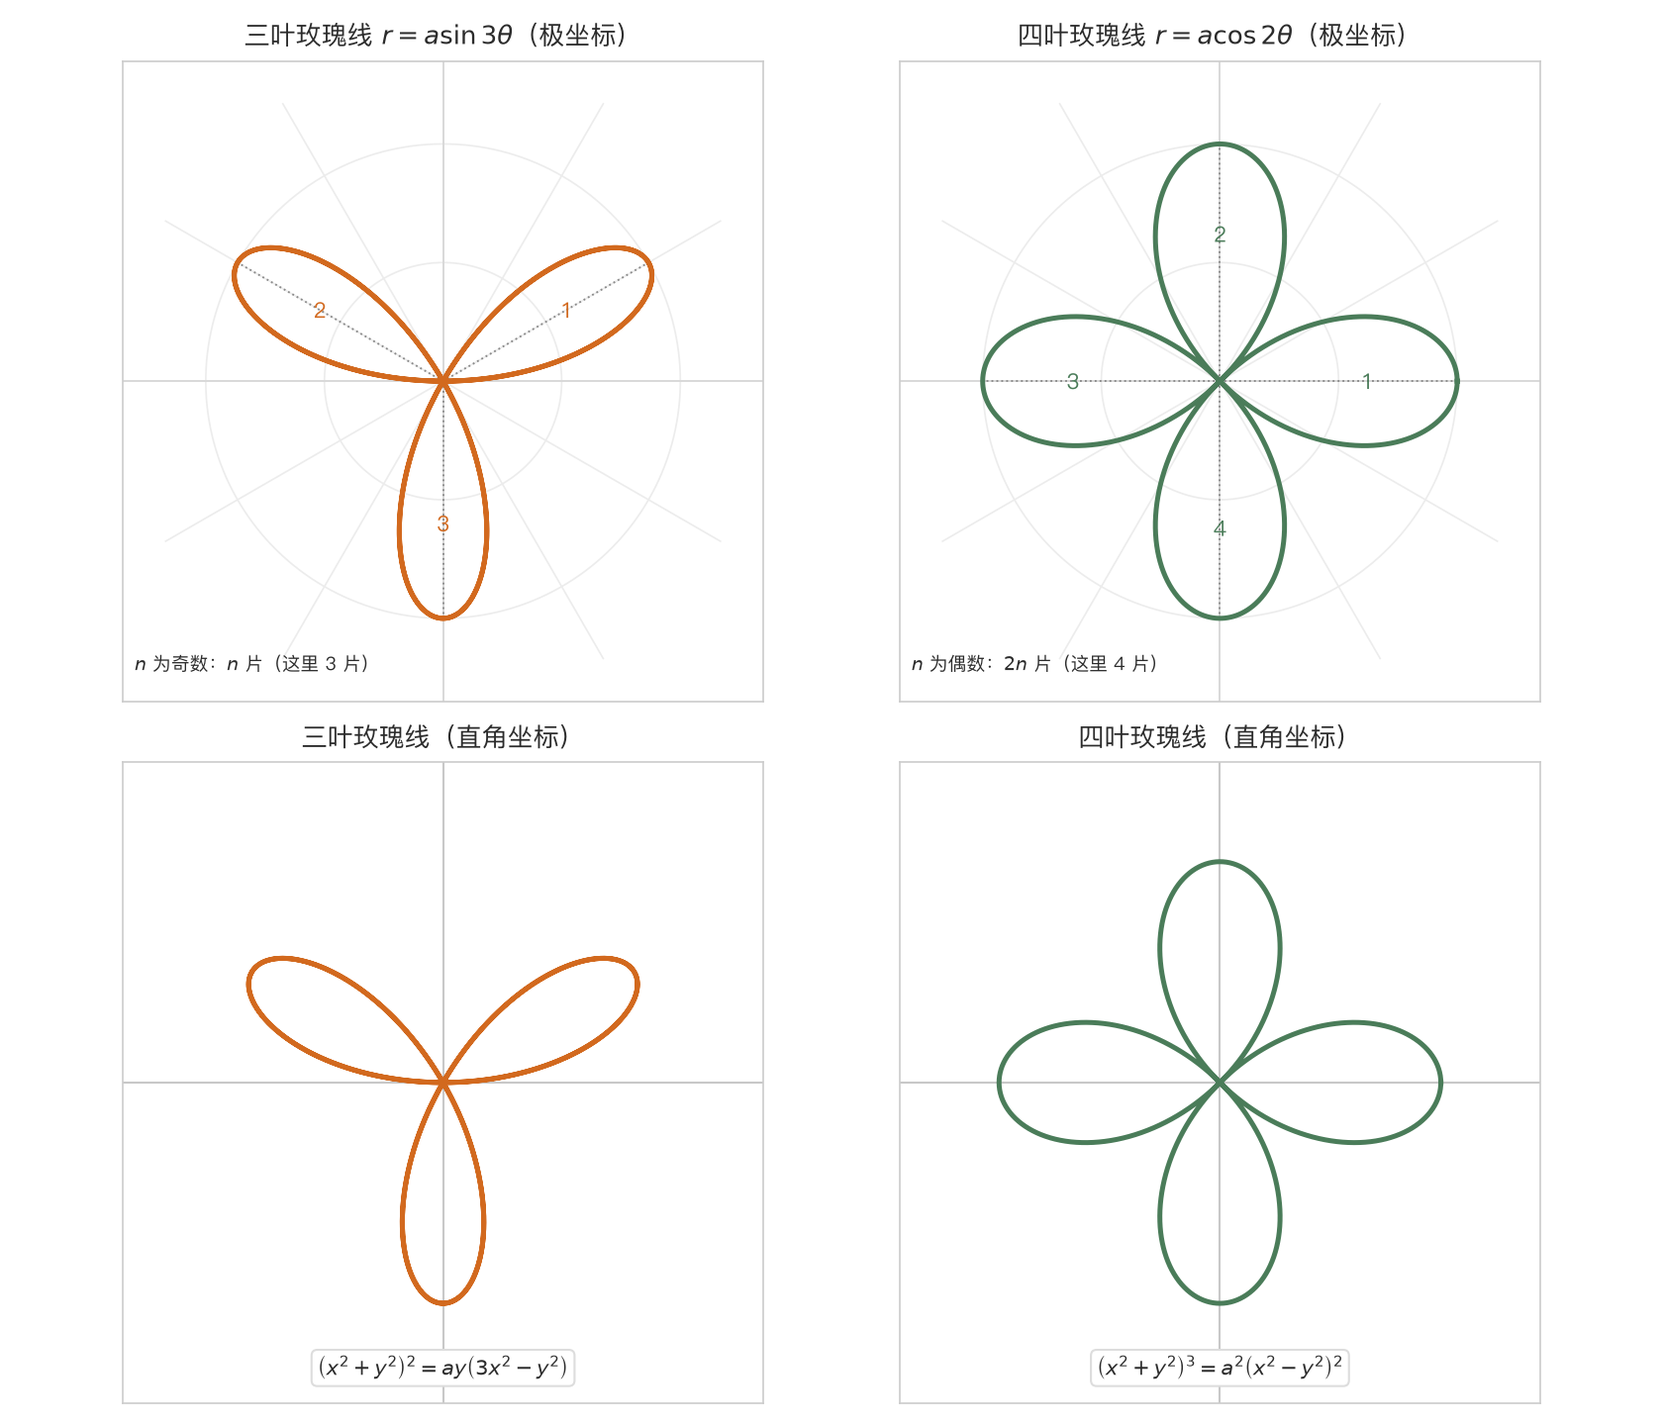
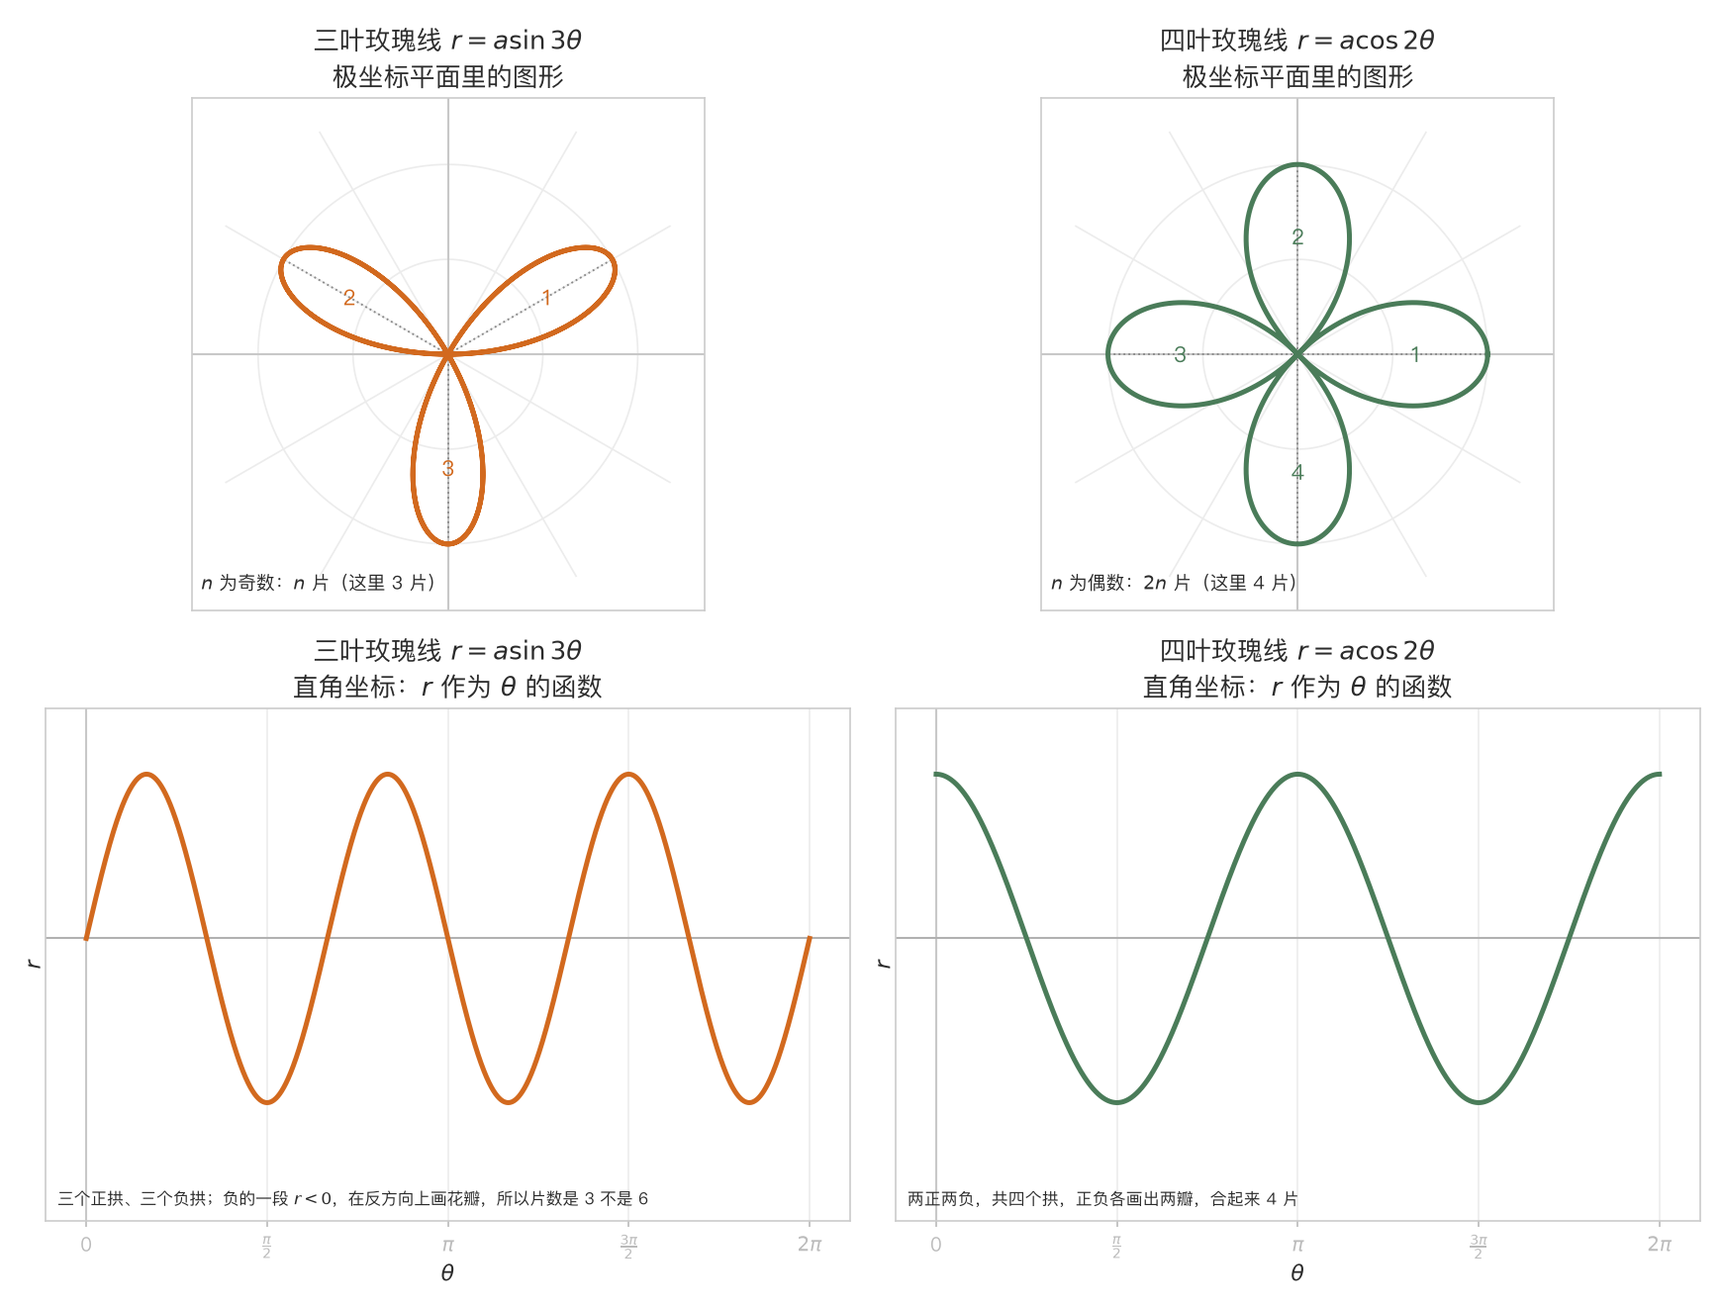
img: plot each polar function as an r(theta) graph beside its polar-plane curve

diff --git a/img/kaoyan-math/make_polar_curve_figs.py b/img/kaoyan-math/make_polar_curve_figs.py
@@ -7,9 +7,10 @@ plt.rcParams["font.family"] = ["PingFang SC", "Arial Unicode MS", "DejaVu Sans"]
 plt.rcParams["axes.unicode_minus"] = False
 
 INK, ORANGE, BLUE = "#2b2b2b", "#d2691e", "#2f4f6f"
-CREAM, RED, GREEN, GREY, BROWN = "#f3e3ce", "#b03a2e", "#4a7c59", "#8a8a8a", "#7a5230"
+RED, GREEN, GREY, BROWN = "#b03a2e", "#4a7c59", "#8a8a8a", "#7a5230"
 BASE = "/Users/fred/Documents/GitHub/cycleuser/blog/output/img/kaoyan-math/"
 F, T = 11.5, 12.5
+PI = np.pi
 
 
 def polar_axes(ax, lim, title):
@@ -19,166 +20,181 @@ def polar_axes(ax, lim, title):
     for a0 in np.arange(0, np.pi, np.pi / 6):
         ax.plot([0, lim * np.cos(a0)], [0, lim * np.sin(a0)], color="#ececec", lw=0.8, zorder=0)
         ax.plot([0, -lim * np.cos(a0)], [0, -lim * np.sin(a0)], color="#ececec", lw=0.8, zorder=0)
-    ax.axhline(0, color="#d8d8d8", lw=0.9, zorder=1)
-    ax.axvline(0, color="#d8d8d8", lw=0.9, zorder=1)
+    ax.axhline(0, color="#c8c8c8", lw=1.0, zorder=1)
+    ax.axvline(0, color="#c8c8c8", lw=1.0, zorder=1)
     ax.set_xlim(-lim, lim); ax.set_ylim(-lim, lim)
     ax.set_aspect("equal"); ax.set_xticks([]); ax.set_yticks([])
     for sp in ax.spines.values():
         sp.set_color("#cccccc")
-    ax.set_title(title + "（极坐标）", fontsize=T, color=INK, pad=8)
+    ax.set_title(title + "\n极坐标平面里的图形", fontsize=T, color=INK, pad=6)
 
 
-def cart_axes(ax, lim, title, eq, note=""):
-    ax.set_xlim(-lim, lim); ax.set_ylim(-lim, lim)
-    ax.set_aspect("equal")
+def rtheta_axes(ax, trange, rrange, title, ticks=None):
+    """直角坐标里把 r 当作 theta 的函数画：横轴 theta，纵轴 r。"""
+    ax.set_xlim(*trange); ax.set_ylim(*rrange)
     ax.grid(True, color="#ececec", lw=0.8)
     ax.axhline(0, color="#c8c8c8", lw=1.0, zorder=2)
     ax.axvline(0, color="#c8c8c8", lw=1.0, zorder=2)
-    ax.set_xticks([]); ax.set_yticks([])
+    if ticks is None:
+        ticks = [(0, "0"), (PI / 2, r"$\frac{\pi}{2}$"), (PI, r"$\pi$"),
+                 (3 * PI / 2, r"$\frac{3\pi}{2}$"), (2 * PI, r"$2\pi$")]
+    ax.set_xticks([t for t, _ in ticks])
+    ax.set_xticklabels([l for _, l in ticks], fontsize=F - 2, color=INK)
+    ax.set_yticks([])
+    ax.tick_params(axis="x", colors="#bbbbbb", length=3)
     for sp in ax.spines.values():
         sp.set_color("#cccccc")
-    ax.set_title(title + "（直角坐标）", fontsize=T, color=INK, pad=8)
-    box = dict(boxstyle="round,pad=0.28", facecolor="white", edgecolor="#dddddd")
-    ax.text(0.5, 0.035, eq, transform=ax.transAxes, fontsize=F - 1.5, color=INK,
-            ha="center", va="bottom", bbox=box)
-    if note:
-        ax.text(0.5, 0.115, note, transform=ax.transAxes, fontsize=F - 3, color=GREY,
-                ha="center", va="bottom")
+    ax.set_title(title + "\n直角坐标：$r$ 作为 $\\theta$ 的函数", fontsize=T, color=INK, pad=6)
+    ax.set_xlabel(r"$\theta$", fontsize=F - 1, color=INK, labelpad=1)
+    ax.set_ylabel(r"$r$", fontsize=F - 1, color=INK, labelpad=1)
 
 
 # ============ 1 心形线 ============
 a = 1.0
 th = np.linspace(0, 2 * np.pi, 2000)
-fig, axes = plt.subplots(1, 2, figsize=(12.2, 5.3), dpi=150)
+r = a * (1 + np.cos(th))
+fig, axes = plt.subplots(1, 2, figsize=(12.0, 5.0), dpi=150)
 
 ax = axes[0]
 polar_axes(ax, 2.2, "心形线 $r=a(1+\\cos\\theta)$")
-r = a * (1 + np.cos(th))
 ax.plot(r * np.cos(th), r * np.sin(th), color=RED, lw=2.6, zorder=3)
 ax.plot([0], [0], "o", color=INK, ms=6, zorder=6)
-ax.annotate("尖端在极点\n（$\\theta=\\pi$，$r=0$）", xy=(0, 0), xytext=(-2.05, 1.55),
-            fontsize=F - 2, color=INK, arrowprops=dict(arrowstyle="->", color=GREY, lw=1.0))
 ax.plot([2 * a], [0], "o", color=BLUE, ms=7, zorder=6)
-ax.annotate("$\\theta=0$ 时 $r=2a$，最远处", xy=(2 * a, 0), xytext=(0.35, 1.98),
+ax.annotate("$\\theta=0$：$r=2a$", xy=(2 * a, 0), xytext=(0.30, 2.00),
             fontsize=F - 2, color=BLUE, arrowprops=dict(arrowstyle="->", color=BLUE, lw=1.0))
-ax.text(-2.1, -1.70, "关于极轴对称，形状像一颗心", fontsize=F - 2, color=GREY)
-ax.text(-2.1, -2.05, "$\\theta$ 从 $0$ 转到 $2\\pi$ 描出一整圈", fontsize=F - 2, color=GREY)
+ax.annotate("$\\theta=\\pi$：$r=0$，回到极点", xy=(0, 0), xytext=(-2.10, 1.55),
+            fontsize=F - 2, color=INK, arrowprops=dict(arrowstyle="->", color=GREY, lw=1.0))
 
 ax = axes[1]
-cart_axes(ax, 2.4, "心形线", "$\\left(x^{2}+y^{2}-ax\\right)^{2}=a^{2}\\left(x^{2}+y^{2}\\right)$")
-ax.plot(r * np.cos(th), r * np.sin(th), color=RED, lw=2.6, zorder=3)
-ax.plot([0], [0], "o", color=INK, ms=6, zorder=6)
-ax.plot([2 * a], [0], "o", color=BLUE, ms=7, zorder=6)
+rtheta_axes(ax, (-0.35, 2 * PI + 0.35), (-0.35, 2.45), "心形线 $r=a(1+\\cos\\theta)$")
+ax.plot(th, r, color=RED, lw=2.6, zorder=3)
+ax.plot([0, 2 * PI], [2, 2], "o", color=BLUE, ms=6, zorder=5)
+ax.plot([PI], [0], "o", color=INK, ms=6, zorder=5)
+ax.annotate("$\\theta=\\pi$ 时 $r$ 掉到 $0$，\n曲线的尖端就是这里", xy=(PI, 0), xytext=(3.55, 0.55),
+            fontsize=F - 2.5, color=INK, arrowprops=dict(arrowstyle="->", color=GREY, lw=1.0))
 fig.tight_layout(); fig.savefig(BASE + "pc-cardioid.png", dpi=150); plt.close(fig)
 
 
-# ============ 2 玫瑰线：三叶与四叶 ============
-fig, axes = plt.subplots(2, 2, figsize=(11.2, 9.6), dpi=150)
+# ============ 2 玫瑰线 ============
+r3 = np.sin(3 * th)
+r2 = np.cos(2 * th)
+fig, axes = plt.subplots(2, 2, figsize=(11.6, 8.8), dpi=150)
 
 ax = axes[0][0]
 polar_axes(ax, 1.35, "三叶玫瑰线 $r=a\\sin 3\\theta$")
-r = np.sin(3 * th)
-ax.plot(r * np.cos(th), r * np.sin(th), color=ORANGE, lw=2.4, zorder=3)
+ax.plot(r3 * np.cos(th), r3 * np.sin(th), color=ORANGE, lw=2.4, zorder=3)
 for k in range(3):
-    ang = np.pi / 6 + k * 2 * np.pi / 3
+    ang = PI / 6 + k * 2 * PI / 3
     ax.plot([0, np.cos(ang)], [0, np.sin(ang)], color=GREY, lw=0.9, ls=":", zorder=2)
     ax.text(0.60 * np.cos(ang), 0.60 * np.sin(ang), "%d" % (k + 1), fontsize=F - 1,
             color=ORANGE, ha="center", va="center")
-ax.text(-1.3, -1.22, "$n$ 为奇数：$n$ 片（这里 3 片）", fontsize=F - 2.5, color=INK)
+ax.text(-1.3, -1.24, "$n$ 为奇数：$n$ 片（这里 3 片）", fontsize=F - 2.5, color=INK)
 
 ax = axes[0][1]
 polar_axes(ax, 1.35, "四叶玫瑰线 $r=a\\cos 2\\theta$")
-r4 = np.cos(2 * th)
-ax.plot(r4 * np.cos(th), r4 * np.sin(th), color=GREEN, lw=2.4, zorder=3)
+ax.plot(r2 * np.cos(th), r2 * np.sin(th), color=GREEN, lw=2.4, zorder=3)
 for k in range(4):
-    ang = k * np.pi / 2
+    ang = k * PI / 2
     ax.plot([0, np.cos(ang)], [0, np.sin(ang)], color=GREY, lw=0.9, ls=":", zorder=2)
     ax.text(0.62 * np.cos(ang), 0.62 * np.sin(ang), "%d" % (k + 1), fontsize=F - 1,
             color=GREEN, ha="center", va="center")
-ax.text(-1.3, -1.22, "$n$ 为偶数：$2n$ 片（这里 4 片）", fontsize=F - 2.5, color=INK)
+ax.text(-1.3, -1.24, "$n$ 为偶数：$2n$ 片（这里 4 片）", fontsize=F - 2.5, color=INK)
 
 ax = axes[1][0]
-cart_axes(ax, 1.45, "三叶玫瑰线", "$\\left(x^{2}+y^{2}\\right)^{2}=ay\\left(3x^{2}-y^{2}\\right)$")
-ax.plot(r * np.cos(th), r * np.sin(th), color=ORANGE, lw=2.4, zorder=3)
+rtheta_axes(ax, (-0.35, 2 * PI + 0.35), (-1.72, 1.40), "三叶玫瑰线 $r=a\\sin 3\\theta$")
+ax.plot(th, r3, color=ORANGE, lw=2.4, zorder=3)
+ax.axhline(0, color="#b0b0b0", lw=0.9, zorder=2)
+ax.text(-0.25, -1.62, "三个正拱、三个负拱；负的一段 $r<0$，在反方向上画花瓣，所以片数是 3 不是 6", fontsize=F - 3.5, color=INK)
 
 ax = axes[1][1]
-cart_axes(ax, 1.45, "四叶玫瑰线", "$\\left(x^{2}+y^{2}\\right)^{3}=a^{2}\\left(x^{2}-y^{2}\\right)^{2}$")
-ax.plot(r4 * np.cos(th), r4 * np.sin(th), color=GREEN, lw=2.4, zorder=3)
+rtheta_axes(ax, (-0.35, 2 * PI + 0.35), (-1.72, 1.40), "四叶玫瑰线 $r=a\\cos 2\\theta$")
+ax.plot(th, r2, color=GREEN, lw=2.4, zorder=3)
+ax.axhline(0, color="#b0b0b0", lw=0.9, zorder=2)
+ax.text(-0.25, -1.62, "两正两负，共四个拱，正负各画出两瓣，合起来 4 片", fontsize=F - 3.5, color=INK)
 
 fig.tight_layout(); fig.savefig(BASE + "pc-rose.png", dpi=150); plt.close(fig)
 
 
 # ============ 3 双纽线 ============
 a = 1.2
-fig, axes = plt.subplots(1, 2, figsize=(12.2, 5.2), dpi=150)
+t2 = np.concatenate([np.linspace(-PI / 4, PI / 4, 900), np.linspace(3 * PI / 4, 5 * PI / 4, 900)])
+r2d = a * np.sqrt(np.cos(2 * t2))
+fig, axes = plt.subplots(1, 2, figsize=(12.0, 5.0), dpi=150)
 
 ax = axes[0]
 polar_axes(ax, 1.75, "双纽线 $r^{2}=a^{2}\\cos 2\\theta$")
-t2 = np.concatenate([np.linspace(-np.pi / 4, np.pi / 4, 900),
-                     np.linspace(3 * np.pi / 4, 5 * np.pi / 4, 900)])
-r2 = a * np.sqrt(np.cos(2 * t2))
-ax.plot(r2 * np.cos(t2), r2 * np.sin(t2), color=BLUE, lw=2.6, zorder=3)
+ax.plot(r2d * np.cos(t2), r2d * np.sin(t2), color=BLUE, lw=2.6, zorder=3)
 ax.plot([0], [0], "o", color=INK, ms=6, zorder=6)
 ax.plot([a], [0], "o", color=RED, ms=7, zorder=6)
 ax.plot([-a], [0], "o", color=RED, ms=7, zorder=6)
 ax.text(a + 0.07, 0.15, "顶点", fontsize=F - 3, color=RED)
 ax.text(-a - 0.55, 0.15, "顶点", fontsize=F - 3, color=RED)
-ax.text(-1.70, -1.28, "只有 $\\cos 2\\theta\\geq0$ 的部分有图形", fontsize=F - 2.5, color=INK)
-ax.text(-1.70, -1.62, "$\\theta\\in[-\\frac{\\pi}{4},\\frac{\\pi}{4}]\\cup[\\frac{3\\pi}{4},\\frac{5\\pi}{4}]$",
-        fontsize=F - 2.5, color=INK)
+ax.text(-1.70, -1.30, "只有 $\\cos 2\\theta\\geq0$ 的部分有图形", fontsize=F - 2.5, color=INK)
 
 ax = axes[1]
-cart_axes(ax, 1.75, "双纽线", "$\\left(x^{2}+y^{2}\\right)^{2}=a^{2}\\left(x^{2}-y^{2}\\right)$")
-ax.plot(r2 * np.cos(t2), r2 * np.sin(t2), color=BLUE, lw=2.6, zorder=3)
-ax.plot([0], [0], "o", color=INK, ms=6, zorder=6)
-ax.plot([a, -a], [0, 0], "o", color=RED, ms=7, zorder=6)
+rtheta_axes(ax, (-1.15, 4.35), (-1.50, 1.55), r"双纽线 $r^{2}=a^{2}\cos 2\theta$",
+            ticks=[(0, "0"), (PI / 2, r"$\frac{\pi}{2}$"), (PI, r"$\pi$")])
+tt = np.linspace(-PI / 4, PI / 4, 400)
+ax.plot(tt, a * np.sqrt(np.cos(2 * tt)), color=BLUE, lw=2.6, zorder=3)
+ax.plot(tt + PI, -a * np.sqrt(np.cos(2 * tt)), color=BLUE, lw=2.6, zorder=3)
+for st in (-PI / 4, PI / 4, 3 * PI / 4, 5 * PI / 4):
+    ax.axvline(st, color="#e0c8c8", lw=1.0, ls="--", zorder=1)
+ax.text(0.55, -0.62, "$\\theta\\in\\left[-\\frac{\\pi}{4},\\frac{\\pi}{4}\\right]$：$r\\geq0$，画出一瓣",
+        fontsize=F - 3, color=BLUE)
+ax.text(2.60, 0.22, "$\\theta\\in\\left[\\frac{3\\pi}{4},\\frac{5\\pi}{4}\\right]$：$r\\leq0$，\n沿反方向也画出一瓣",
+        fontsize=F - 3, color=BLUE)
+ax.text(2.30, 1.30, "中间的区间 $\\cos 2\\theta<0$，$r$ 无定义，图上没有曲线",
+        fontsize=F - 3, color=GREY)
 fig.tight_layout(); fig.savefig(BASE + "pc-lemniscate.png", dpi=150); plt.close(fig)
 
 
 # ============ 4 阿基米德螺线 ============
-fig, axes = plt.subplots(1, 2, figsize=(12.2, 5.6), dpi=150)
+fig, axes = plt.subplots(1, 2, figsize=(12.0, 5.2), dpi=150)
 
 ax = axes[0]
 polar_axes(ax, 4.6, "阿基米德螺线 $r=a\\theta$")
-th3 = np.linspace(0, 3 * np.pi, 1200)
-r3 = 0.5 * th3
-ax.plot(r3 * np.cos(th3), r3 * np.sin(th3), color=ORANGE, lw=2.4, zorder=3)
+th3 = np.linspace(0, 3 * PI, 1200)
+ax.plot((0.5 * th3) * np.cos(th3), (0.5 * th3) * np.sin(th3), color=ORANGE, lw=2.4, zorder=3)
 for k in range(1, 4):
-    ang = k * np.pi / 2
+    ang = k * PI / 2
     rr = 0.5 * ang
     ax.plot([0, rr * np.cos(ang)], [0, rr * np.sin(ang)], color=GREY, lw=0.9, ls=":", zorder=2)
     ax.plot([rr * np.cos(ang)], [rr * np.sin(ang)], "o", color=ORANGE, ms=5, zorder=5)
 ax.text(-4.4, -3.75, "每转半圈，$r$ 增加同样的量 $\\pi a/2$", fontsize=F - 2, color=INK)
-ax.text(-4.4, -4.20, "像蚊香的纹路，间距相等", fontsize=F - 2, color=GREY)
+ax.text(-4.4, -4.20, "相邻两圈间距相等", fontsize=F - 2, color=GREY)
 
 ax = axes[1]
-cart_axes(ax, 4.8, "阿基米德螺线", "写不出 $y=f(x)$", note="半径是极角的线性函数，极角要用 $\\arctan\\frac{y}{x}$ 表示")
-ax.plot(r3 * np.cos(th3), r3 * np.sin(th3), color=ORANGE, lw=2.4, zorder=3)
-ax.plot([0], [0], "o", color=INK, ms=5, zorder=6)
+rtheta_axes(ax, (-0.35, 3 * PI + 0.35), (-0.6, 5.2), "阿基米德螺线 $r=a\\theta$",
+            ticks=[(0, "0"), (PI, r"$\pi$"), (2 * PI, r"$2\pi$"), (3 * PI, r"$3\pi$")])
+ax.plot(th3, 0.5 * th3, color=ORANGE, lw=2.6, zorder=3)
+ax.text(0.35, 4.3, "在直角坐标里它是一条过原点的直线：\n$r$ 与 $\\theta$ 成正比",
+        fontsize=F - 3, color=INK)
 fig.tight_layout(); fig.savefig(BASE + "pc-spiral-arch.png", dpi=150); plt.close(fig)
 
 
 # ============ 5 对数螺线 ============
-fig, axes = plt.subplots(1, 2, figsize=(12.2, 5.6), dpi=150)
+fig, axes = plt.subplots(1, 2, figsize=(12.0, 5.2), dpi=150)
 
 ax = axes[0]
 polar_axes(ax, 8.2, "对数螺线 $r=e^{a\\theta}$")
-th4 = np.linspace(0, 3 * np.pi, 1400)
-r4s = np.exp(0.28 * th4)
-ax.plot(r4s * np.cos(th4), r4s * np.sin(th4), color=GREEN, lw=2.4, zorder=3)
+th4 = np.linspace(0, 3 * PI, 1400)
+r4 = np.exp(0.28 * th4)
+ax.plot(r4 * np.cos(th4), r4 * np.sin(th4), color=GREEN, lw=2.4, zorder=3)
 for k in range(1, 4):
-    ang = k * np.pi / 2
+    ang = k * PI / 2
     rr = np.exp(0.28 * ang)
     ax.plot([0, rr * np.cos(ang)], [0, rr * np.sin(ang)], color=GREY, lw=0.9, ls=":", zorder=2)
     ax.plot([rr * np.cos(ang)], [rr * np.sin(ang)], "o", color=GREEN, ms=5, zorder=5)
 ax.text(-8.0, -6.9, "每转半圈，$r$ 按同一个倍数放大", fontsize=F - 2, color=INK)
-ax.text(-8.0, -7.6, "像鹦鹉螺的壳，越转越大", fontsize=F - 2, color=GREY)
+ax.text(-8.0, -7.6, "越往外圈越大", fontsize=F - 2, color=GREY)
 ax.text(-8.0, 4.60, "等角螺线：半径与切线的夹角处处相同", fontsize=F - 2, color=GREY)
 
 ax = axes[1]
-cart_axes(ax, 8.6, "对数螺线", "写不出 $y=f(x)$", note="半径是极角的指数函数，极角要用 $\\arctan\\frac{y}{x}$ 表示")
-ax.plot(r4s * np.cos(th4), r4s * np.sin(th4), color=GREEN, lw=2.4, zorder=3)
-ax.plot([0], [0], "o", color=INK, ms=5, zorder=6)
+rtheta_axes(ax, (-0.35, 3 * PI + 0.35), (-0.6, 14.5), "对数螺线 $r=e^{a\\theta}$",
+            ticks=[(0, "0"), (PI, r"$\pi$"), (2 * PI, r"$2\pi$"), (3 * PI, r"$3\pi$")])
+ax.plot(th4, r4, color=GREEN, lw=2.6, zorder=3)
+ax.text(0.30, 9.5, "在直角坐标里它是一条指数曲线：\n转角相同，$r$ 就乘同一个倍数",
+        fontsize=F - 3, color=INK)
 fig.tight_layout(); fig.savefig(BASE + "pc-spiral-log.png", dpi=150); plt.close(fig)
 
-print("polar figs done")
+print("done")

diff --git a/img/kaoyan-math/make_polar_more.py b/img/kaoyan-math/make_polar_more.py
@@ -24,35 +24,77 @@ def frame(ax, xlim, ylim, title):
 
 
 # ============ 1 过极点的圆与直线 ============
-fig, axes = plt.subplots(1, 2, figsize=(11.4, 5.0), dpi=150)
+PI = np.pi
+fig, axes = plt.subplots(2, 2, figsize=(11.6, 8.6), dpi=150)
 
-ax = axes[0]
-frame(ax, (-0.5, 4.0), (-2.0, 2.4), "过极点的圆：$r=2a\\cos\\theta$")
+# 左上：极坐标平面里的圆
+ax = axes[0][0]
+ax.set_xlim(-1.4, 3.3); ax.set_ylim(-2.0, 2.0)
+ax.set_aspect("equal"); ax.set_xticks([]); ax.set_yticks([])
+for sp in ax.spines.values():
+    sp.set_color("#cccccc")
+ax.set_title("过极点的圆 $r=2a\\cos\\theta$\n极坐标平面里的图形", fontsize=11.5, color=INK, pad=6)
 a = 1.6
-th = np.linspace(-np.pi / 2, np.pi / 2, 400)
-ax.plot(2 * a * np.cos(th) * np.cos(th), 2 * a * np.cos(th) * np.sin(th), color=BLUE, lw=2.6, zorder=3)
+tt = np.linspace(-np.pi / 2, np.pi / 2, 400)
+ax.plot(2 * a * np.cos(tt) * np.cos(tt), 2 * a * np.cos(tt) * np.sin(tt), color=BLUE, lw=2.6, zorder=3)
 ax.plot([0], [0], "o", color=INK, ms=7, zorder=6)
-ax.plot([a], [0], "o", color=RED, ms=7, zorder=6)
 ax.plot([2 * a], [0], "o", color=RED, ms=7, zorder=6)
-ax.text(-0.22, -0.28, "$O$", fontsize=F, color=INK, ha="right")
-ax.text(a - 0.05, -0.42, "圆心 $(a,0)$", fontsize=F - 1.5, color=GREY, ha="center")
-ax.text(2 * a + 0.12, 0.10, "$\\theta=0$ 时 $r=2a$", fontsize=F - 1.5, color=RED)
-ax.annotate("极点在圆上", xy=(0, 0), xytext=(0.30, 1.62), fontsize=F - 1.5, color=INK,
-            arrowprops=dict(arrowstyle="->", color=GREY, lw=1.0))
-ax.text(-0.45, -1.85, "$\\theta$ 只能取 $[-\\frac{\\pi}{2},\\frac{\\pi}{2}]$，否则 $r<0$", fontsize=F - 2, color=GREY)
+ax.text(-0.20, -0.26, "$O$", fontsize=F, color=INK, ha="right")
+ax.text(2 * a + 0.12, 0.12, "$\\theta=0$ 时 $r=2a$", fontsize=F - 2, color=RED)
+ax.text(-1.30, -1.85, "$\\theta$ 取 $\\left[-\\frac{\\pi}{2},\\frac{\\pi}{2}\\right]$ 描完一圈", fontsize=F - 2.5, color=GREY)
 
-ax = axes[1]
-frame(ax, (-0.6, 3.4), (-2.0, 2.4), "不过极点的直线：$r=\\sec\\theta$（即 $x=1$）")
+# 右上：极坐标平面里的直线
+ax = axes[0][1]
+ax.set_xlim(-1.6, 3.3); ax.set_ylim(-2.2, 2.2)
+ax.set_aspect("equal"); ax.set_xticks([]); ax.set_yticks([])
+for sp in ax.spines.values():
+    sp.set_color("#cccccc")
+ax.set_title("不过极点的直线 $r=\\sec\\theta$\n极坐标平面里的图形", fontsize=11.5, color=INK, pad=6)
 tt = np.linspace(-1.15, 1.15, 300)
-r = 1 / np.cos(tt)
-ax.plot(r * np.cos(tt), r * np.sin(tt), color=ORANGE, lw=2.6, zorder=3)
-ax.text(1.10, 1.55, "$x=1$", fontsize=F - 1, color=ORANGE)
+ax.plot(np.cos(tt) * 0 + 1.0, np.tan(tt), color=ORANGE, lw=2.6, zorder=3)
 ax.plot([0], [0], "o", color=INK, ms=7, zorder=6)
-ax.text(-0.22, -0.28, "$O$", fontsize=F, color=INK, ha="right")
-ax.annotate("", xy=(1.0, 1.0), xytext=(0, 0),
-            arrowprops=dict(arrowstyle="->", color=GREY, lw=1.1, ls=":"))
-ax.text(0.10, 0.42, "$\\theta$ 变大时 $r$ 也变大", fontsize=F - 2, color=GREY)
-ax.text(-0.55, -1.85, "直线不过极点时，$r$ 随 $\\theta$ 变化，不是常数", fontsize=F - 2, color=INK)
+ax.text(-0.20, -0.30, "$O$", fontsize=F, color=INK, ha="right")
+ax.text(1.10, 1.80, "$x=1$", fontsize=F - 1, color=ORANGE)
+ax.text(-1.55, -2.05, "直线不过极点，$r$ 随 $\\theta$ 变化", fontsize=F - 2.5, color=GREY)
+
+# 左下：r 作为 theta 的函数
+ax = axes[1][0]
+ax.set_xlim(-2.0, 2.0); ax.set_ylim(-0.35, 3.6)
+ax.grid(True, color="#ececec", lw=0.8)
+ax.axhline(0, color="#c8c8c8", lw=1.0)
+ax.axvline(0, color="#c8c8c8", lw=1.0)
+ax.set_xticks([-PI / 2, 0, PI / 2])
+ax.set_xticklabels([r"$-\frac{\pi}{2}$", "0", r"$\frac{\pi}{2}$"], fontsize=F - 2, color=INK)
+ax.set_yticks([])
+for sp in ax.spines.values():
+    sp.set_color("#cccccc")
+ax.set_title("同一函数：$r=2a\\cos\\theta$\n直角坐标里 $r$ 作为 $\\theta$ 的函数", fontsize=11.5, color=INK, pad=6)
+ax.set_xlabel(r"$\theta$", fontsize=F - 1, color=INK, labelpad=1)
+ax.set_ylabel(r"$r$", fontsize=F - 1, color=INK, labelpad=1)
+tt = np.linspace(-np.pi / 2, np.pi / 2, 400)
+ax.plot(tt, 2 * a * np.cos(tt), color=BLUE, lw=2.6, zorder=3)
+ax.plot([0], [2 * a], "o", color=RED, ms=7, zorder=5)
+ax.text(-1.95, 0.30, "一条余弦拱：$\\theta=0$ 处最高 $2a$，两端落到 $0$", fontsize=F - 2.5, color=INK)
+
+# 右下：sec
+ax = axes[1][1]
+ax.set_xlim(-1.6, 1.6); ax.set_ylim(-0.6, 5.2)
+ax.grid(True, color="#ececec", lw=0.8)
+ax.axhline(0, color="#c8c8c8", lw=1.0)
+ax.axvline(0, color="#c8c8c8", lw=1.0)
+ax.set_xticks([-PI / 2, 0, PI / 2])
+ax.set_xticklabels([r"$-\frac{\pi}{2}$", "0", r"$\frac{\pi}{2}$"], fontsize=F - 2, color=INK)
+ax.set_yticks([])
+for sp in ax.spines.values():
+    sp.set_color("#cccccc")
+ax.set_title("同一函数：$r=\\sec\\theta$\n直角坐标里 $r$ 作为 $\\theta$ 的函数", fontsize=11.5, color=INK, pad=6)
+ax.set_xlabel(r"$\theta$", fontsize=F - 1, color=INK, labelpad=1)
+ax.set_ylabel(r"$r$", fontsize=F - 1, color=INK, labelpad=1)
+tt = np.linspace(-1.25, 1.25, 400)
+rr = 1 / np.cos(tt)
+ax.plot(tt, rr, color=ORANGE, lw=2.6, zorder=3)
+ax.plot([0], [1], "o", color=RED, ms=7, zorder=5)
+ax.text(-1.55, 4.55, "$\\theta=0$ 处 $r=1$ 最小，两端往上冲", fontsize=F - 2.5, color=INK)
 
 fig.tight_layout(); fig.savefig(BASE + "pc-circle-line.png", dpi=150); plt.close(fig)
 
